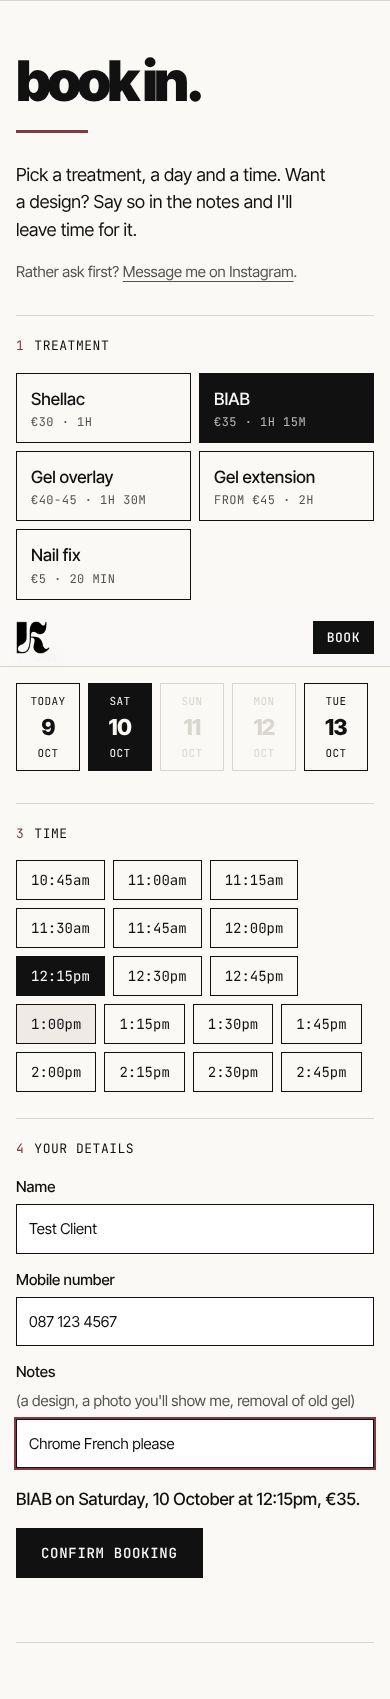
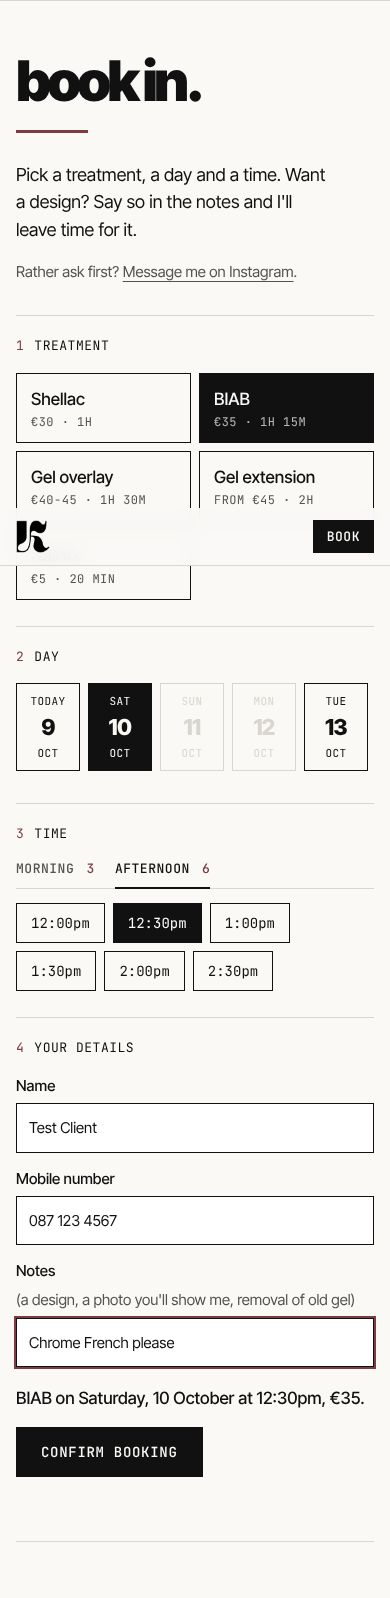
Show fewer booking times at once
Start times are now 30 minutes apart instead of 15, and free times are split into morning, afternoon and evening with one part shown at a time.

Claude-Session: https://claude.ai/code/session_01X9rZUHmVE1ybVuzk7bGYoE

diff --git a/public/app.js b/public/app.js
@@ -2,7 +2,11 @@
 const $ = (s, el = document) => el.querySelector(s);
 const DAY_KEYS = ["sun", "mon", "tue", "wed", "thu", "fri", "sat"];
 
-const state = { salon: null, service: null, date: null, time: null };
+const state = { salon: null, service: null, date: null, time: null, times: [], period: null };
+
+// Free times are shown one part of the day at a time so the list stays short.
+const PERIODS = [["morning", "Morning", 0, 12 * 60], ["afternoon", "Afternoon", 12 * 60, 17 * 60], ["evening", "Evening", 17 * 60, 24 * 60]];
+const toMins = (hhmm) => { const [h, m] = hhmm.split(":").map(Number); return h * 60 + m; };
 
 const esc = (s) => String(s).replace(/[&<>"']/g, (c) => ({ "&": "&amp;", "<": "&lt;", ">": "&gt;", '"': "&quot;", "'": "&#39;" })[c]);
 const addDays = (date, n) => { const d = new Date(`${date}T12:00:00Z`); d.setUTCDate(d.getUTCDate() + n); return d.toISOString().slice(0, 10); };
@@ -48,9 +52,14 @@ function renderBooking(salon) {
   });
 
   $("#time-choices").addEventListener("click", (e) => {
+    const tab = e.target.closest(".period");
+    if (tab) {
+      state.period = tab.dataset.period;
+      return renderTimes();
+    }
     const btn = e.target.closest(".time");
     if (!btn) return;
-    pressed($("#time-choices"), btn);
+    pressed($(".time-list"), btn);
     state.time = btn.dataset.time;
     $("#step-details").disabled = false;
     updateSummary();
@@ -73,12 +82,28 @@ async function loadTimes() {
   try {
     const res = await fetch(`/api/availability?${q}`);
     const data = await res.json();
-    box.innerHTML = data.times?.length
-      ? data.times.map((t) => `<button type="button" class="time" aria-pressed="false" data-time="${t}">${fmtTime(t)}</button>`).join("")
-      : `<p class="muted">${esc(data.closedReason || data.error || "No free times that day.")} Try another day.</p>`;
+    if (!data.times?.length) {
+      box.innerHTML = `<p class="muted">${esc(data.closedReason || data.error || "No free times that day.")} Try another day.</p>`;
+      return;
+    }
+    state.times = data.times;
+    state.period = PERIODS.find(([id, , from, to]) => data.times.some((t) => toMins(t) >= from && toMins(t) < to))[0];
+    renderTimes();
   } catch {
     box.innerHTML = `<p class="form-error">Couldn't load times. Check your connection and pick the day again.</p>`;
   }
+}
+
+function renderTimes() {
+  const inPeriod = ([, , from, to]) => state.times.filter((t) => toMins(t) >= from && toMins(t) < to);
+  const periods = PERIODS.filter((p) => inPeriod(p).length);
+  const current = periods.find(([id]) => id === state.period) || periods[0];
+  const tabs = periods.length > 1
+    ? `<div class="periods" role="group" aria-label="Part of the day">${periods.map((p) => `
+        <button type="button" class="period" data-period="${p[0]}" aria-pressed="${p === current}">${p[1]} <span>${inPeriod(p).length}</span></button>`).join("")}</div>`
+    : "";
+  $("#time-choices").innerHTML = tabs + `<div class="time-list">${inPeriod(current).map((t) => `
+    <button type="button" class="time" aria-pressed="${t === state.time}" data-time="${t}">${fmtTime(t)}</button>`).join("")}</div>`;
 }
 
 function updateSummary() {

diff --git a/public/styles.css b/public/styles.css
@@ -110,7 +110,13 @@ h1, h2, p { margin: 0; }
 .day small { font: 400 11px var(--mono); text-transform: uppercase; letter-spacing: .04em; }
 .day b { font-size: 22px; font-weight: 800; letter-spacing: -.03em; }
 .day:disabled { border-color: var(--rule); color: var(--rule); cursor: not-allowed; }
-.times { display: flex; flex-wrap: wrap; gap: 8px; }
+.times { display: grid; gap: 14px; }
+.time-list { display: flex; flex-wrap: wrap; gap: 8px; }
+.periods { display: flex; flex-wrap: wrap; gap: 20px; border-bottom: 1px solid var(--rule); }
+.period { font: 500 13px var(--mono); text-transform: uppercase; letter-spacing: .04em; color: var(--ink-2); background: none; border: 0; border-bottom: 2px solid transparent; padding: 0 0 10px; margin-bottom: -1px; cursor: pointer; }
+.period span { color: var(--wine); margin-left: 4px; }
+.period[aria-pressed="true"] { color: var(--ink); border-bottom-color: var(--ink); }
+.period:hover { color: var(--ink); }
 .time { font: 400 14px var(--mono); padding: 10px 14px; font-variant-numeric: tabular-nums; }
 .fields { display: grid; grid-template-columns: 1fr 1fr; gap: 14px; margin-bottom: 18px; }
 .fields label { display: grid; gap: 6px; font-size: 15px; font-weight: 500; }

diff --git a/OWNER-SETUP.md b/OWNER-SETUP.md
@@ -5,6 +5,7 @@ Fill these in `config/salon.json`. Until then the site shows them as "to confirm
 - [ ] `hours`: Klaudia's real opening hours. **The current ones are examples** so booking works; `null` means closed that day.
 - [ ] Each service's `minutes`: how long each treatment really takes. **The current ones are examples.**
 - [ ] `minNoticeMinutes` (now 2 hours) and `maxDaysAhead` (now 6 weeks): how late and how far ahead people can book
+- [ ] `slotIntervalMinutes` (now 30): how far apart start times are; smaller shows more times
 - [ ] `address`: studio address (and `mapsUrl`, a Google Maps link to it)
 - [ ] `phoneDisplay`: phone number, if Klaudia wants one on the site (or delete the line)
 - [ ] `email`: optional
